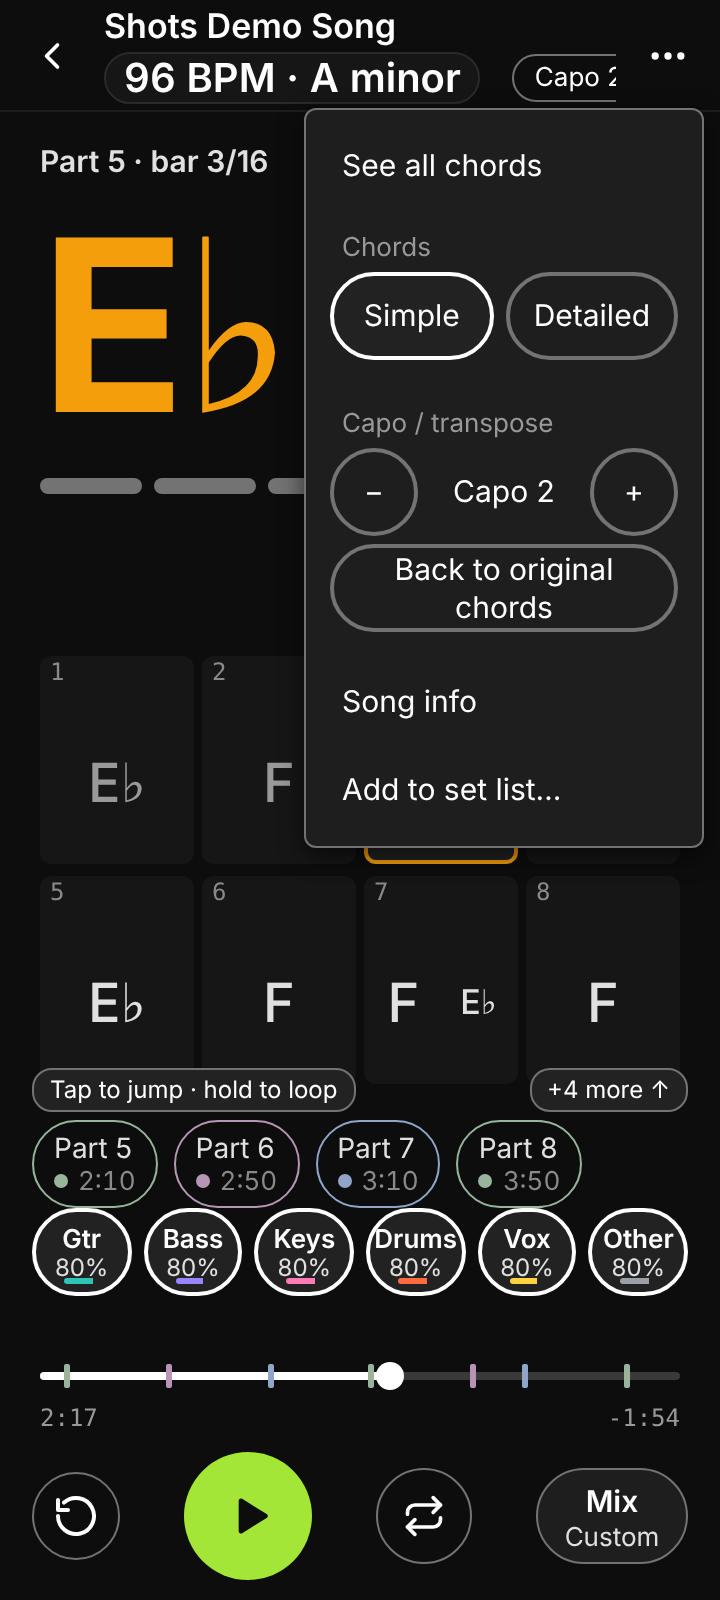
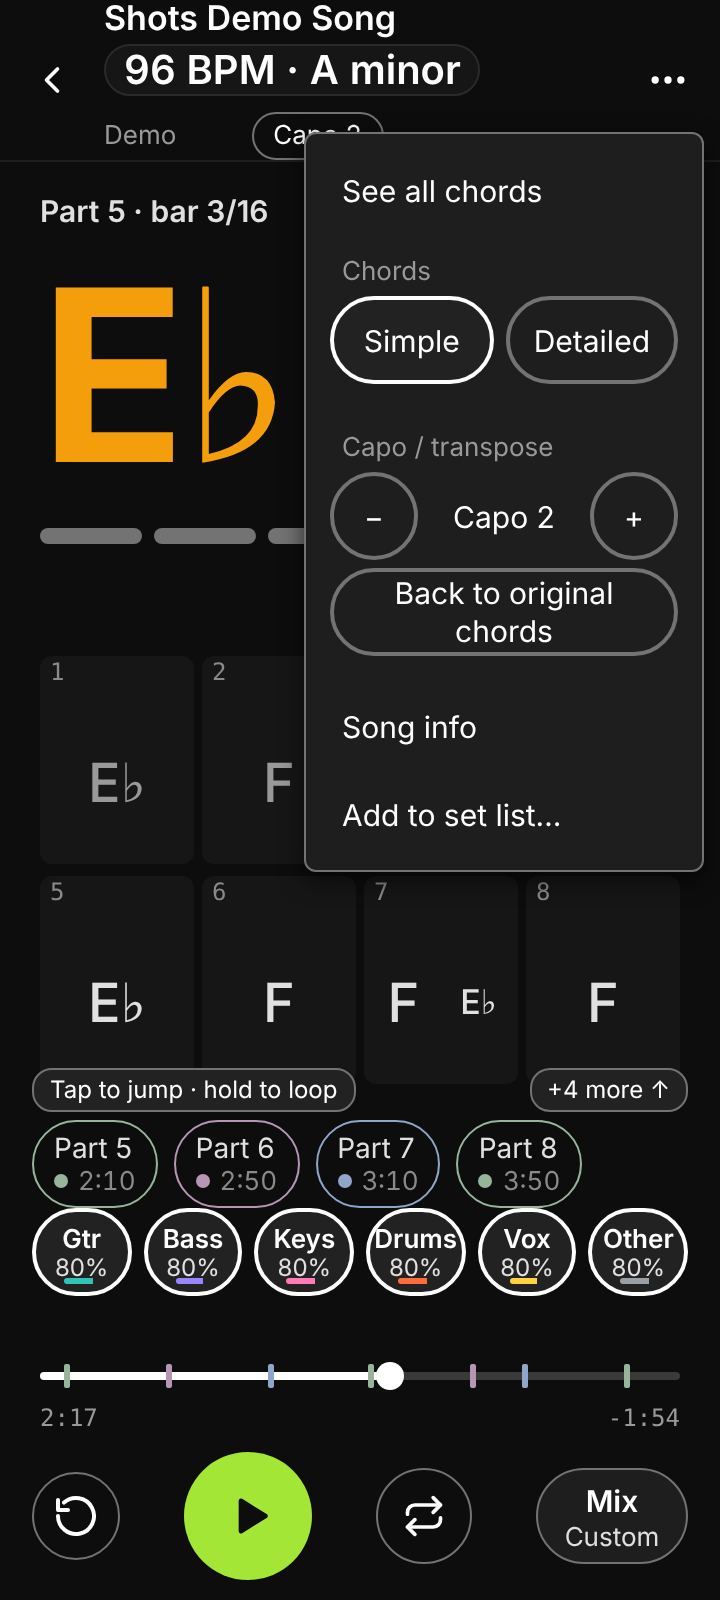
fix(player): capo badge no longer squeezes the artist; stepper label one line (round 4, visual)
Header meta row wraps (badge to its own line), artist keeps min 8ch, header
min-height 56px; stepper shows +N with 'semitones' as sr-only text. Static
layout test added; 14 screenshots regenerated.

Claude-Session: https://claude.ai/code/session_01JqS8BW7hzsSPYt1CvWU9cg

diff --git a/apps/web/src/components/play/Player.module.css b/apps/web/src/components/play/Player.module.css
@@ -46,7 +46,10 @@
 
 /* ── compact header (56px) ─────────────────────────────────────────────── */
 .head {
-  height: 56px;
+  min-height: 56px;
+  padding-top: 3px;
+  padding-bottom: 3px;
+  box-sizing: border-box;
   flex-shrink: 0;
   display: flex;
   align-items: center;
@@ -89,6 +92,10 @@
   margin-top: 2px;
   min-width: 0;
   display: flex;
+  /* Items WRAP onto a second line instead of shrinking: the capo badge never
+     squeezes the artist (PR #375 round 4); the header grows (min-height). */
+  flex-wrap: wrap;
+  row-gap: 2px;
   align-items: center;
   gap: 8px;
   font-size: 13px;
@@ -119,8 +126,10 @@
   text-overflow: ellipsis;
 }
 .artist {
-  flex: 1 1 0;
-  min-width: 0;
+  /* shrinks to an ellipsis, but never below 8ch: below that it wraps */
+  flex: 0 1 auto;
+  min-width: 8ch;
+  max-width: 100%;
   overflow: hidden;
   text-overflow: ellipsis;
 }
@@ -223,6 +232,7 @@
   text-align: center;
   font-size: 15px;
   color: var(--text-primary);
+  white-space: nowrap;
 }
 .capoBadge {
   display: inline-flex;
@@ -234,6 +244,7 @@
   font-size: 13px;
   color: var(--text-primary);
   white-space: nowrap;
+  flex: 0 0 auto;
 }
 
 /* ── the body: the stage takes the remainder ───────────────────────────── */

diff --git a/apps/web/src/components/play/TransposeMenuItem.tsx b/apps/web/src/components/play/TransposeMenuItem.tsx
@@ -23,7 +23,14 @@ export function TransposeMenuItem({ value, onChange }: { value: number; onChange
           {'−'}
         </button>
         <span className={styles.stepperValue} role="status" data-testid="transpose-value">
-          {transposeSummary(value)}
+          {value > 0 ? (
+            <>
+              {`+${value}`}
+              <span className={styles.sr}>{value === 1 ? ' semitone' : ' semitones'}</span>
+            </>
+          ) : (
+            transposeSummary(value)
+          )}
         </span>
         <button
           type="button"

diff --git a/apps/web/src/components/play/PlayerScreen.tsx b/apps/web/src/components/play/PlayerScreen.tsx
@@ -481,6 +481,7 @@ export function PlayerScreen(props: ScreenProps) {
                 </span>
               ) : null}
               {artist ? <span className={styles.artist}>{artist}</span> : null}
+              {/* .sub wraps: when the badge does not fit it takes its own line. */}
               {badge ? (
                 <span className={styles.capoBadge} data-testid="capo-indicator">
                   {badge}

diff --git a/docs/design/screens-2026-11-23/pr375-capo-transpose/README.md b/docs/design/screens-2026-11-23/pr375-capo-transpose/README.md
@@ -2,7 +2,10 @@
 
 Captured with headless Chromium (Playwright, one process) rendering the real PlayerView (real CSS) at 390x844 and 360x800, mobile+touch, DPR 2; chord fixture play-chords-4m-two-chord-bars.json. Harness: the packages/web-browser-gate chords-mobile-shots approach (bundle of Player.tsx), driven through the UI.
 
-uptime at capture:  17:28:01 up 10 min,  0 user,  load average: 3.07, 1.82, 0.80
+uptime at capture (round 1):  17:28:01 up 10 min,  0 user,  load average: 3.07, 1.82, 0.80
+
+Round 4 (visual): all 14 PNGs regenerated after the header fix (badge no longer squeezes the artist; stepper label one line). Harness /home/claude/s19b/shots/shots.mjs, ONE headless Chromium. uptime at capture:  17:31:19 up 14 min,  0 user,  load average: 3.65, 2.43, 1.23
+Artist width before/after (Demo, 390 Capo 2): 15.4 -> 65.6 px; (360 Capo 2): 0 -> 65.6 px; (360 +3): 13.1 -> 65.6 px.
 
 - 01-more-menu-capo-stepper-zero-360x800.png
 - 01-more-menu-capo-stepper-zero-390x844.png
